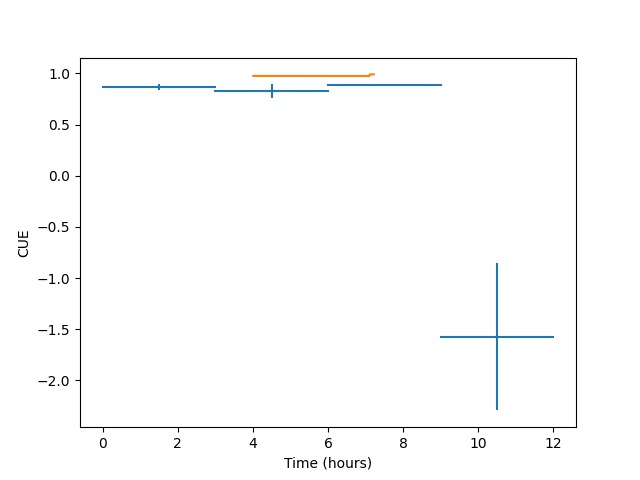
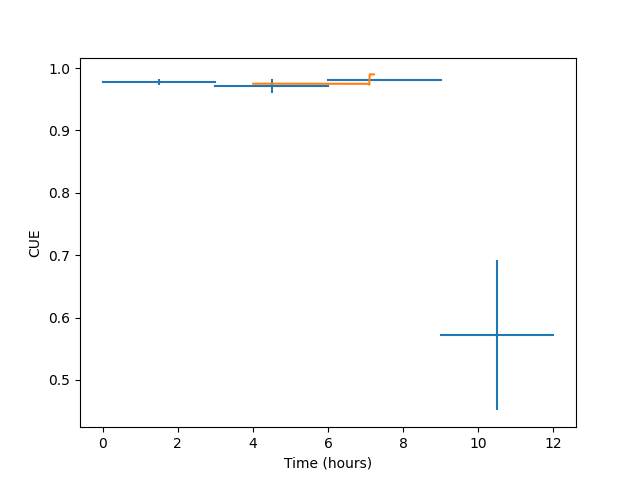
Multiply the drawdown by the number of carbon atoms

diff --git a/mit1002_full/timecourse/plot_results.py b/mit1002_full/timecourse/plot_results.py
@@ -242,8 +242,9 @@ for i in range(1,5):
         # Calculate the CUE for the current replicate
         if current_drawdown == 0:
             continue
-        cues.append(1 - current_co2 / current_drawdown)
-    
+        # Multiply the drawdown by 6 to account for the 6 carbon atoms in the glucose
+        cues.append(1 - current_co2 / (current_drawdown * 6))
+
     # Calcualte the mean and the standard deviation for all the replicate
     cue_means.append(np.mean(cues))
     cue_std.append(np.std(cues))
